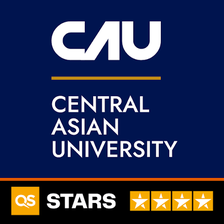
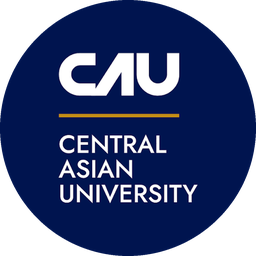
Round CAU mark in the footer badge
Claude-Session: https://claude.ai/code/session_016yVALpEJJ5vtDxvuE5EPJh

diff --git a/src/styles.css b/src/styles.css
@@ -782,7 +782,7 @@ html.booting .table-card { animation-play-state: paused; }
 .cursor.is-big i { transform: scale(1.7); background: color-mix(in srgb, var(--ink) 14%, transparent); }
 
 .backed { display: inline-flex; align-items: center; gap: 12px; text-align: left; }
-.backed img { display: block; width: 46px; height: 46px; flex: none; border-radius: 22%; }
+.backed img { display: block; width: 46px; height: 46px; flex: none; border-radius: 50%; }
 .backed small { display: block; margin-bottom: 3px; font: 700 10px/1 var(--sans); text-transform: uppercase; letter-spacing: .09em; color: var(--ink-2); }
 .backed b { display: block; font: 800 14px/1.1 var(--sans); text-transform: uppercase; letter-spacing: -.01em; }
 .foot .backed small { color: inherit; opacity: .8; }
